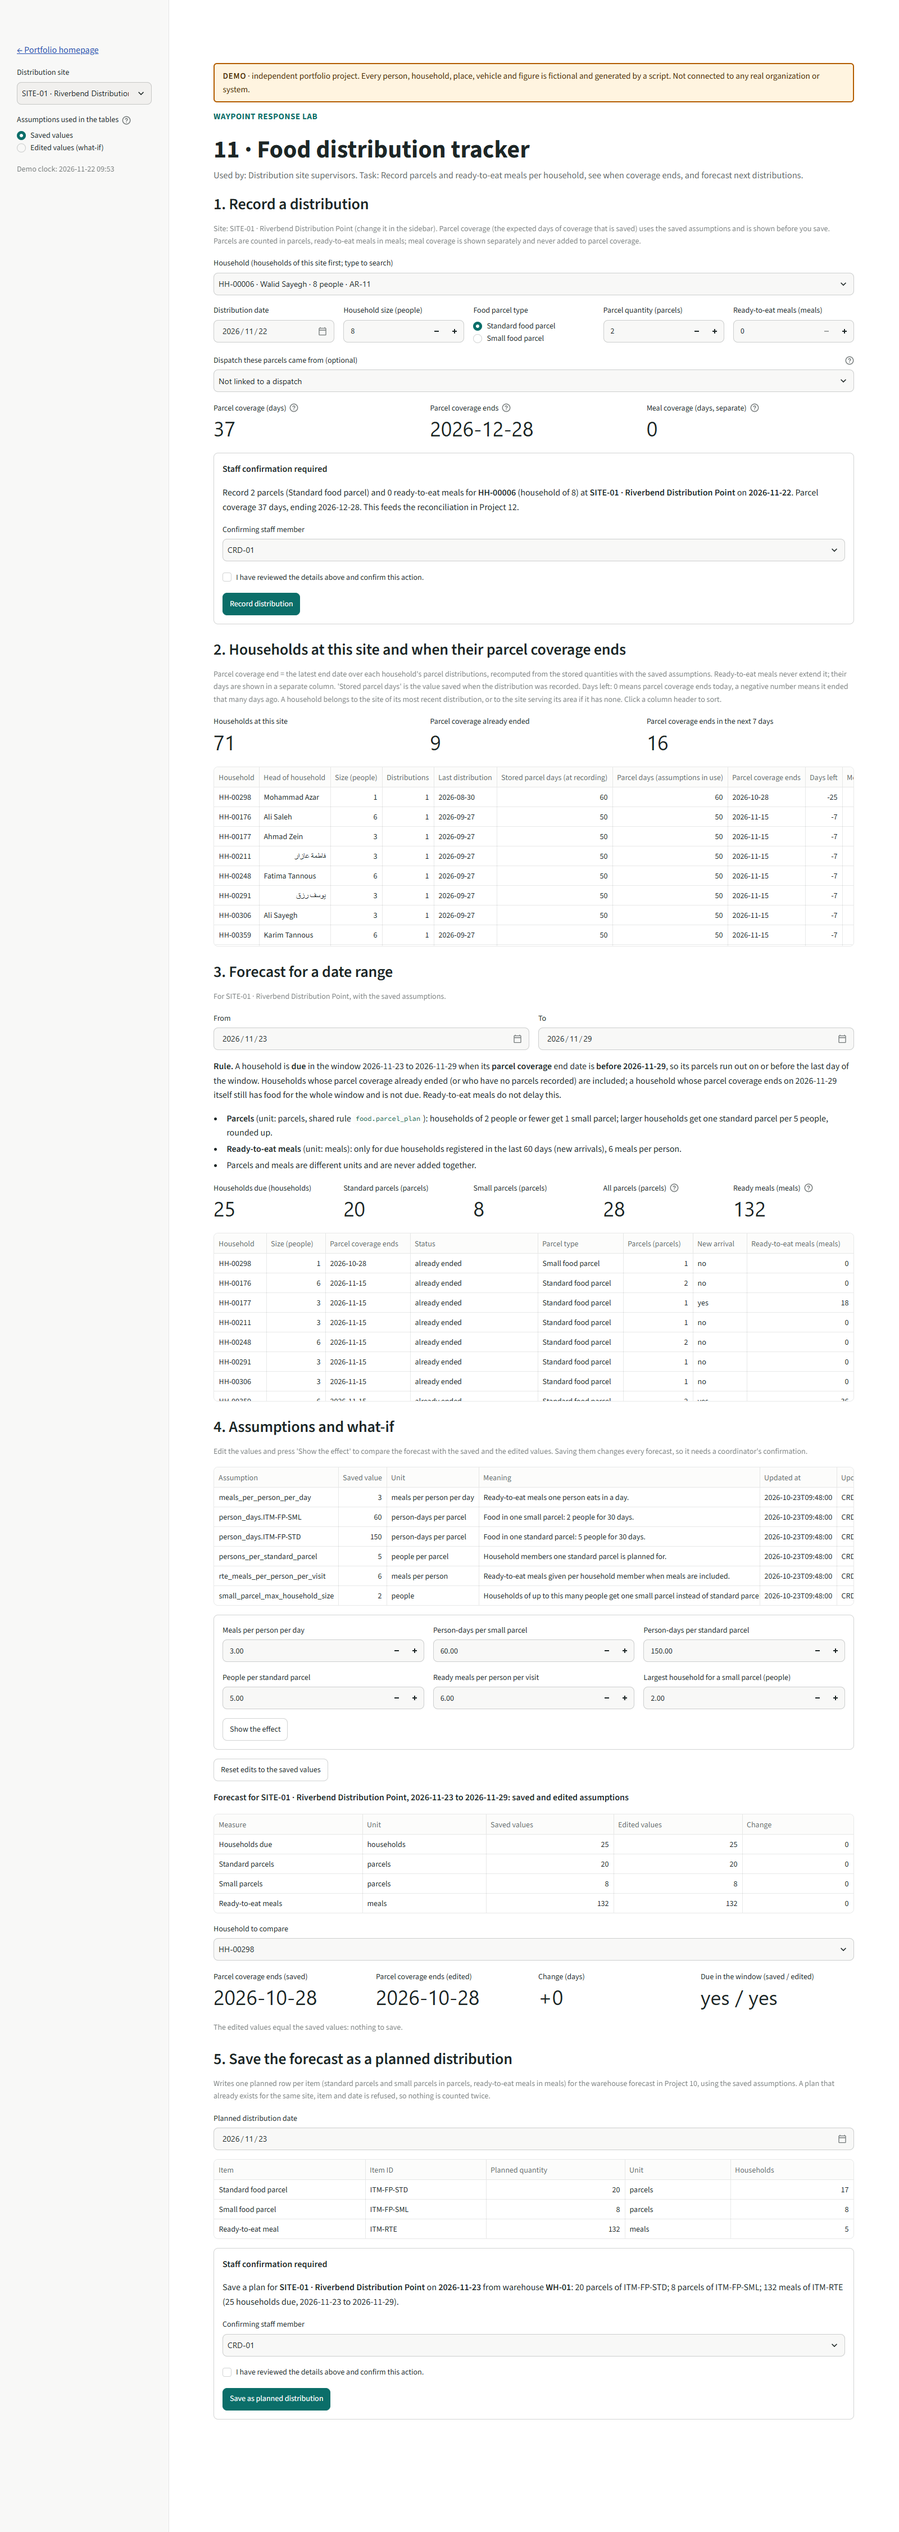
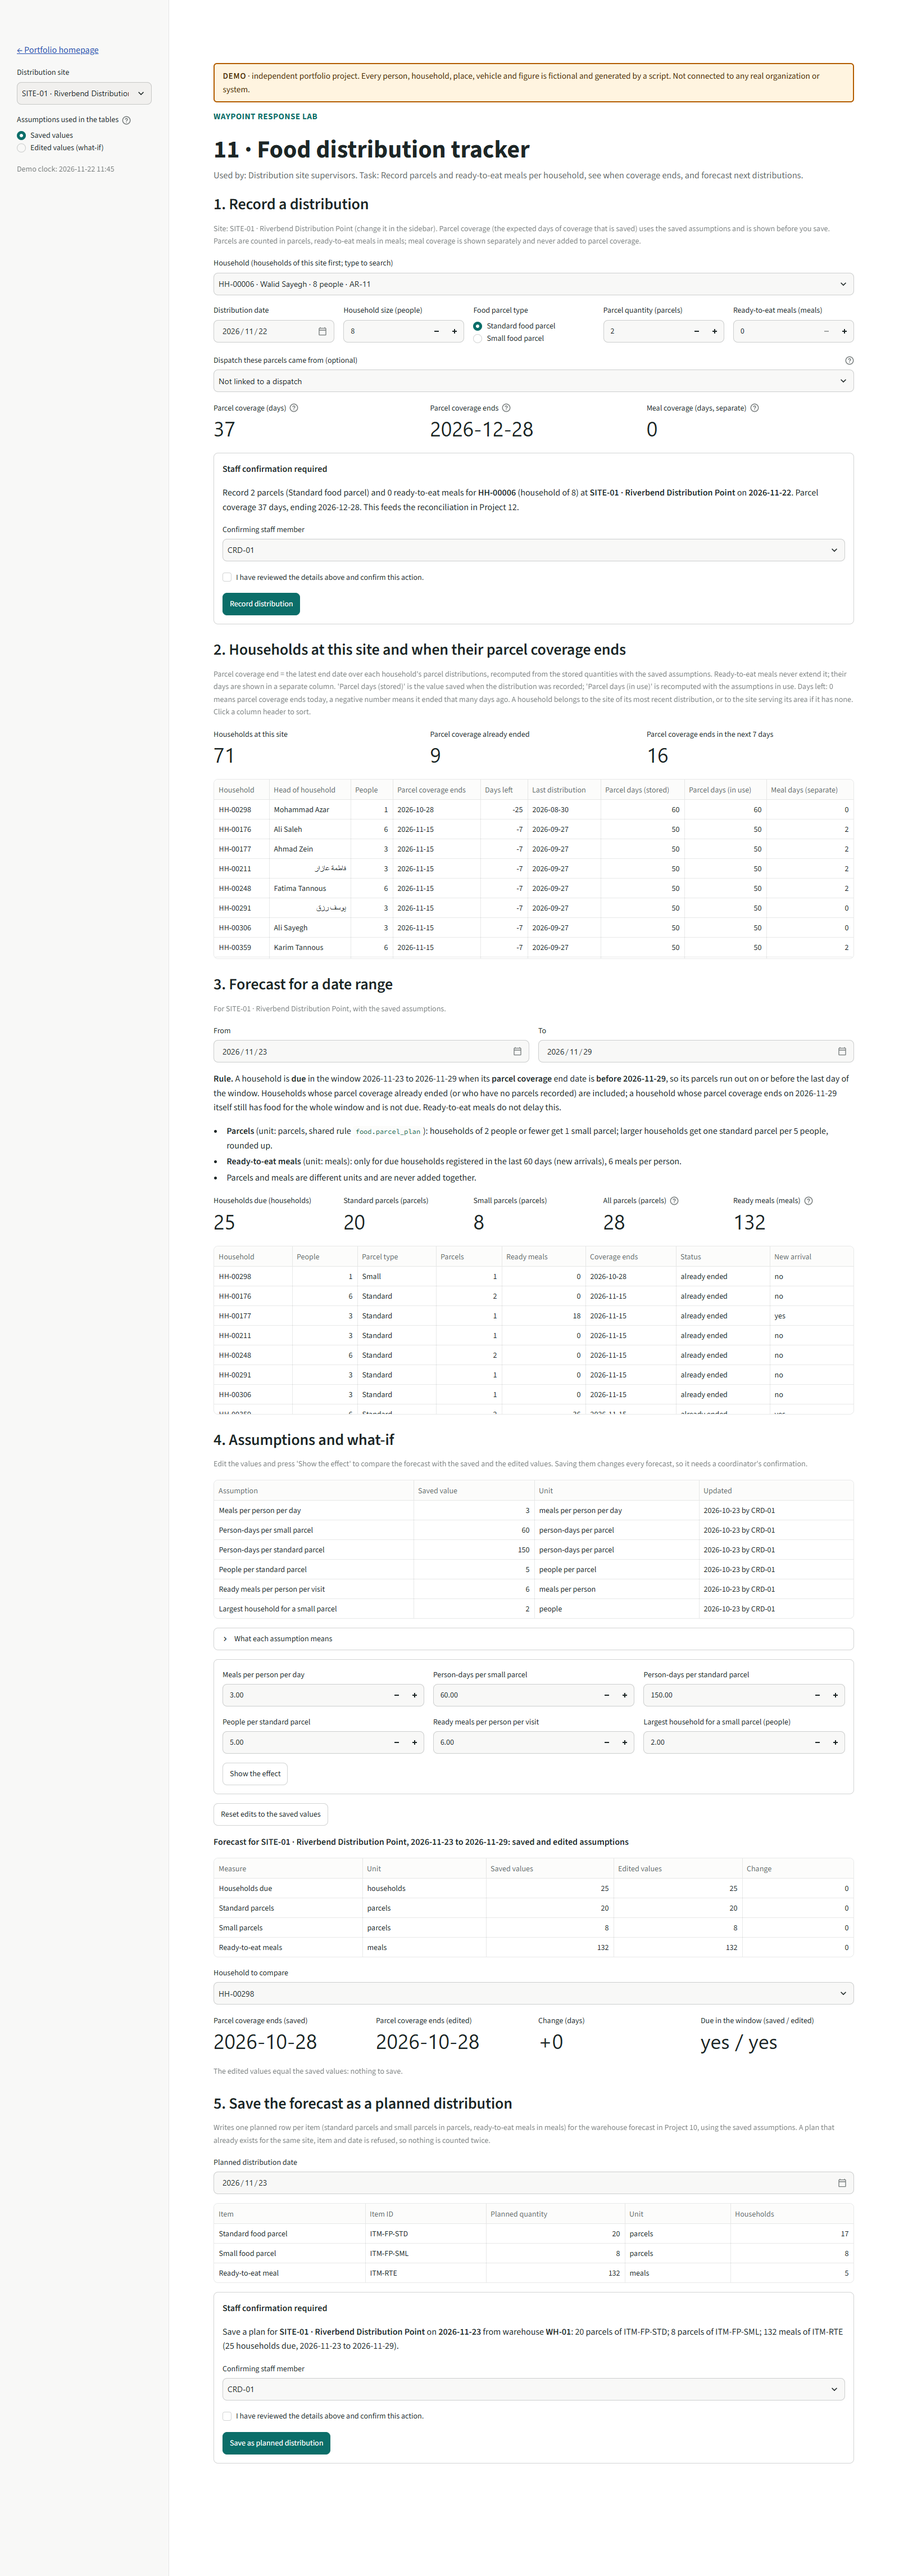
Project 11: narrower tables, confirmations, fresh screenshot

diff --git a/projects/11-food-distribution-tracker/app.py b/projects/11-food-distribution-tracker/app.py
@@ -163,7 +163,7 @@ ui.section(
     "2. Households at this site and when their parcel coverage ends",
     f"Parcel coverage end = the latest end date over each household's parcel distributions, recomputed from the stored "
     f"quantities with the {in_use_label}. Ready-to-eat meals never extend it; their days are shown in a separate column. "
-    "'Stored parcel days' is the value saved when the distribution was recorded. Days left: 0 means parcel coverage ends "
+    "'Parcel days (stored)' is the value saved when the distribution was recorded; 'Parcel days (in use)' is recomputed with the assumptions in use. Days left: 0 means parcel coverage ends "
     "today, a negative number means it ended that many days ago. A household belongs to the site of its most recent "
     "distribution, or to the site serving its area if it has none. Click a column header to sort.",
 )
@@ -173,15 +173,13 @@ hh_table = pd.DataFrame(
         {
             "Household": hc.household_id,
             "Head of household": hc.head_name,
-            "Size (people)": hc.household_size,
-            "Distributions": hc.distributions,
-            "Last distribution": show_date(hc.last_distribution_date),
-            "Stored parcel days (at recording)": hc.last_stored_days,
-            "Parcel days (assumptions in use)": hc.last_recomputed_days,
+            "People": hc.household_size,
             "Parcel coverage ends": show_date(hc.coverage_end),
             "Days left": hc.days_left(TODAY),
-            "Meal days (last distribution, separate)": hc.last_meal_days,
-            "Site from": hc.site_source,
+            "Last distribution": show_date(hc.last_distribution_date),
+            "Parcel days (stored)": hc.last_stored_days,
+            "Parcel days (in use)": hc.last_recomputed_days,
+            "Meal days (separate)": hc.last_meal_days,
         }
         for hc in sorted(at_site, key=lambda h: (h.coverage_end or date.min, h.household_id))
     ]
@@ -235,8 +233,8 @@ ui.metric_row(
 
 def due_status(end: date | None) -> str:
     if end is None:
-        return "no parcels recorded"
-    return "already ended" if end < TODAY else "ends before the window's last day"
+        return "no parcels"
+    return "already ended" if end < TODAY else "ends in window"
 
 
 ui.table(
@@ -244,25 +242,25 @@ ui.table(
         [
             {
                 "Household": d.household.household_id,
-                "Size (people)": d.household.household_size,
-                "Parcel coverage ends": show_date(d.household.coverage_end),
+                "People": d.household.household_size,
+                "Parcel type": ITEM_NAMES[d.parcel_item_id].replace(" food parcel", ""),
+                "Parcels": d.parcels,
+                "Ready meals": d.rte_meals,
+                "Coverage ends": show_date(d.household.coverage_end, "none recorded"),
                 "Status": due_status(d.household.coverage_end),
-                "Parcel type": ITEM_NAMES[d.parcel_item_id],
-                "Parcels (parcels)": d.parcels,
                 "New arrival": "yes" if d.new_arrival else "no",
-                "Ready-to-eat meals (meals)": d.rte_meals,
             }
             for d in fc_in_use.due
         ],
         columns=[
             "Household",
-            "Size (people)",
-            "Parcel coverage ends",
-            "Status",
+            "People",
             "Parcel type",
-            "Parcels (parcels)",
+            "Parcels",
+            "Ready meals",
+            "Coverage ends",
+            "Status",
             "New arrival",
-            "Ready-to-eat meals (meals)",
         ],
     ),
     height=300,
@@ -274,7 +272,23 @@ if plans_in_window:
         "Plans already exist for this site in the window. They are part of the warehouse forecast in Project 10; "
         "check them before planning these households again."
     )
-    ui.table(pd.DataFrame(plans_in_window), key="p11_existing_plans")
+    plans_df = pd.DataFrame(plans_in_window)
+    plans_df["unit"] = plans_df["item_id"].map(lambda i: "meals" if i == p11.RTE_MEAL else "parcels")
+    plans_df = plans_df[["plan_id", "planned_date", "item_id", "planned_quantity", "unit", "planned_households", "status"]]
+    ui.table(
+        plans_df.rename(
+            columns={
+                "plan_id": "Plan",
+                "planned_date": "Date",
+                "item_id": "Item",
+                "planned_quantity": "Quantity",
+                "unit": "Unit",
+                "planned_households": "Households",
+                "status": "Status",
+            }
+        ),
+        key="p11_existing_plans",
+    )
 
 # ==================================================================================
 ui.section(
@@ -282,19 +296,24 @@ ui.section(
     "Edit the values and press 'Show the effect' to compare the forecast with the saved and the edited values. "
     "Saving them changes every forecast, so it needs a coordinator's confirmation.",
 )
+ASSUMPTION_NAMES = {
+    "person_days.ITM-FP-STD": "Person-days per standard parcel",
+    "person_days.ITM-FP-SML": "Person-days per small parcel",
+    "meals_per_person_per_day": "Meals per person per day",
+    "persons_per_standard_parcel": "People per standard parcel",
+    "rte_meals_per_person_per_visit": "Ready meals per person per visit",
+    "small_parcel_max_household_size": "Largest household for a small parcel",
+}
+assumption_df = pd.DataFrame(rows)
+assumption_df["Assumption"] = assumption_df["assumption_key"].map(lambda k: ASSUMPTION_NAMES.get(k, k))
+assumption_df["Updated"] = assumption_df["updated_at"].astype(str).str[:10] + " by " + assumption_df["updated_by"].astype(str)
 ui.table(
-    pd.DataFrame(rows).rename(
-        columns={
-            "assumption_key": "Assumption",
-            "value": "Saved value",
-            "unit": "Unit",
-            "description": "Meaning",
-            "updated_at": "Updated at",
-            "updated_by": "Updated by",
-        }
-    ),
+    assumption_df[["Assumption", "value", "unit", "Updated"]].rename(columns={"value": "Saved value", "unit": "Unit"}),
     key="p11_assumptions",
 )
+with st.expander("What each assumption means"):
+    for r in rows:
+        st.markdown(f"- **{ASSUMPTION_NAMES.get(r['assumption_key'], r['assumption_key'])}**: {r['description']}")
 
 
 WHATIF_LABELS = {
